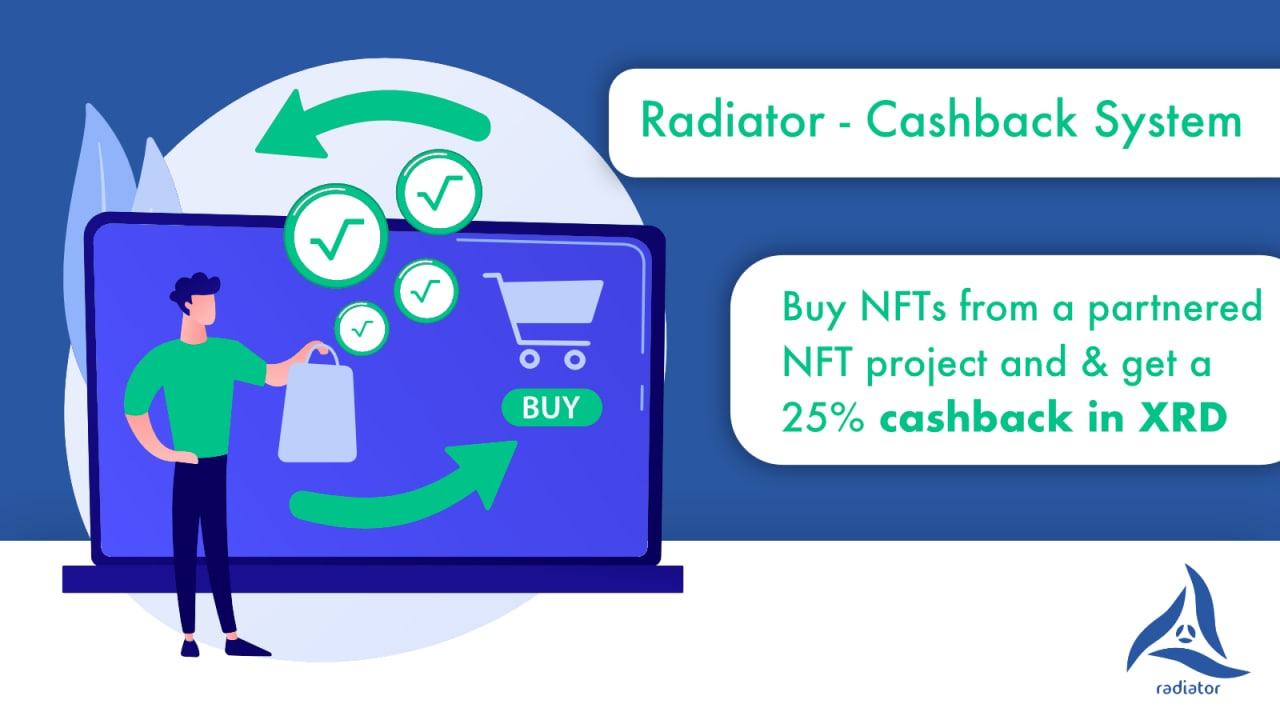
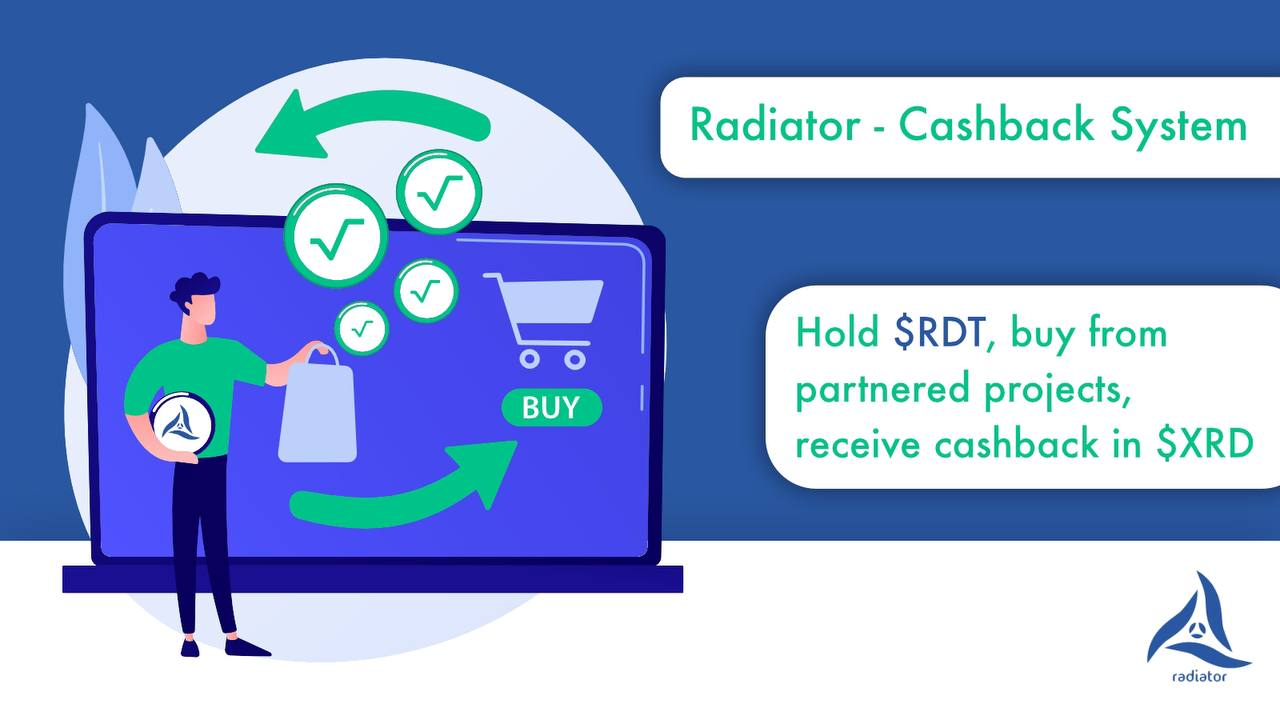
update

diff --git a/3cashback.html b/3cashback.html
@@ -7,12 +7,22 @@ title: cashback
 <br>
 <div class="bonus">
   <h1><span class="text--highlight">Cashback</span>-System</h1>
-  The idea behind $RDT is a "discount-token". We want a network of partnerships throughout the whole Radix Ecosystem. The customer basically gets a cashback when they hold a certain amount of RDT in the wallet.<br><br>
-  Example 1: an NFT project is giving a 25% discount as cashback only because the customer holds a certain amount of RDT in his wallet.<br>
-  Example 2: A customer saves the trading fee on a DEX by holding a certain amount of RDT in his wallet.<br><br>
-  We actually connect unconnectable projects throughout radix.
-  Why should a project partner with us? Its simple: Because they don't lose anything. If the customer doesn‘t have any RDT in the wallet, it is the normal price anyway. If the customer holds a certain amount (set by the partner project) of RDT it means, that he buys there on purpose as he wants to get the discount. It‘s actually kind of proof that we did set the incentive to buy there. The partner project can simply set the bar of how many RDT on the wallet it is supposed to be – to counteract<br> any inflation of the token. We want to build a win-win-win situation for the partnerproject, the customer and us of course.<br>
-  Our aim is to help increasing the revenue of any project.<br>
-  Our job is to promote our partners and set the incentives.<br><br>
+  The native Radiator token \$RDT is basically a „reward-token“. We are establishing a network of partnerships throughout the whole Radix ecosystem. Holders of \$RDT will receive \$XRD cashback, when interacting with goods and services from our partners.
+  <br><br>
+  <h4>$RDT Utility examples:</h4>
+  <ul>
+    <li>discounts when buying NFTs (Non Fungible Tokens)</li>
+    <li>reduced DEX (Decentralized Exchanges) Fees</li>
+    <li>discounts on software engineering services</li>
+  </ul>
+  <br><br>
+  <h4>The conditions for these utilities are set by our partners and vary from project to project:</h4>
+  <ul>
+    <li>amount of $RDT to hold in the wallet you are using to interact with goods & services</li>
+    <li>holding duration</li>
+    <li>others (depending on goods & services)</li>
+  </ul>
+  <br><br>
+  In our aim to optimize the value transfer within the Radix ecosystem we give recommendations to our partners on how to set the conditions in the best way for everyone.
   <img src="assets/img/cashback.jpg" alt="cashback">
 </div>

diff --git a/2stake.html b/2stake.html
@@ -7,15 +7,27 @@ title: stake
 <br>
 <div class="stake">
     <h1><span class="text--highlight">Stake</span> with <span class="text--highlight">us</span>!</h1>
-    <p>
-    We are a german community run radix validator node with a 0% fee. Our aim is to contribute to a decentralized financial system. The node runs on a 24/7 monitored ESXi Cluster with automatic backups and zero downtime.
-		To optimize updates and possible downtimes, we always have a backup node up and running.
-		<br><br>
-		Early stakers will receive airdrops of our native \$RDT token! The earlier and the more you stake, the more \$RDT tokens you get.
-    Formula for Airdrops:<br>
-    <p>$$\frac{\sum stake_{user} \times \sum Airdrop}{\sum stake_{validator}}$$</p>
+    Our Radiator ("RADix validATOR") node is run by german Radix community members. The node runs on a 24/7 monitored ESXi Cluster with automatic backups. To optimize handling of updates, one node is always up and running.
+    Not only will you receive passive income by staking on the Radiator node (\$XRD token with ~9% APY), but also you will receive our \$RDT cashback utility token via frequent airdrops. The more \$XRD you stake, the more \$RDT you will receive. But, everbody will receive a fair share at some point.
+    <br><br>
+    <ul>
+      <li>longtime supporters (staking duration)</li>
+      <li>small amount stakers</li>
+      <li>big amount stakers (whales)</li>
+    </ul>
+
+    To ensure everybody receives a fair share at some point, the airdrop parameters will change frequently and without prior notice:
+    <br><br>
+    <ul>
+      <li>staking duration</li>
+      <li>min. stake</li>
+      <li>max. stake</li>
+      <li>min. airdrop amount per wallet</li>
+      <li>max. airdrop amount per wallet</li>
+    </ul>
+
 		<figure class="highlight"><pre1><code class="language-python" data-lang="python" id="code16"><span class="k">rv1qtm3z8ryf9czeal3unuknedurpxd2lxvz48umryrrznw5queawet28atjna</span></code></pre1></figure>
-    </p>
+
     <h3>How to stake:</h3>
     <figure class="animated_gif_frame" data-caption="GIF (2MB)">
       <img class="animated_gif" src="/assets/img/staking.gif" data-source="/assets/img/staking.gif" width="100%" height="100%">

diff --git a/1about.html b/1about.html
@@ -1,0 +1,37 @@
+---
+layout: null
+section-type: default
+title: about
+---
+<br>
+<br>
+<div class="user-details-bis">
+    <!--<img src="assets/img/logo_white.png" alt="radiatorlogo" width="192" height="192">-->
+    <h1>About</h1>
+    <div class="project-row">
+      <div class="project-column">
+          <h3>Cashback-<span class="text--highlight">System</span></h3>
+          <div class="project-icons">
+            <a aria-label="bonus" href="#rewardsystem"><i class="icon fa fa-refresh"></i></a>
+          </div>
+          <br>
+          <p>The idea of implementing a reward ecosystem within the Radix Network is the central aspect behind radiator. We are establishing a cashback system, where holder of \$RDT will get rewarded in \$XRD when buying or using certain products from our partners.</p>
+      </div>
+        <div class="project-column">
+            <h3><span class="text--highlight">\$RDT</span> Token</h3>
+            <div class="project-icons">
+              <a aria-label="stake" href="https://explorer.radixdlt.com/#/tokens/rdt_rr1qwencdmhktehqfcha2yp3sxghqlzyf5eplkf4ac8dvdq5k8pka"><i class="icon fa fa-usd"></i></a>
+            </div>
+            <br>
+            <p>\$RDT is the first cashback utility token on Radix DLT. Supporters will receive airdrops for staking on our node or fullfilling tasks (giveaways with certain conditions). Stakers will receive a bonus when fulfilling tasks.</p>
+        </div>
+        <div class="project-column">
+            <h3><span class="text--highlight">🛠</span> Node <span class="text--highlight">🛠</span></h3>
+            <div class="project-icons">
+              <a aria-label="token" href="https://www.radixdlt.com/#radix-staking"><i class="icon fa fa-database"></i></a>
+            </div>
+            <br>
+            <p>Earn passive income by staking \$XRD on our node. Not only will you receive staking rewards in \$XRD but also you will receive \$RDT airdrops fequently.</p>
+        </div>
+    </div>
+</div>

diff --git a/_includes/header.html b/_includes/header.html
@@ -4,7 +4,7 @@
           <h1>
               <span class="site-title">{{ site.username }}</span>
               <span class="typewrite site-description" data-period="2250"
-                    data-type='["radixDLT", "node", "rv1qtm3z8ryf9czeal3unuknedurpxd2lxvz48umryrrznw5queawet28atjna", "Radically Different DeFi", "Unlimited Scalability"]'>
+                    data-type='["$RDT is the first cashback utility token exclusively on Radix DLT", "Cashback", "radixDLT", "node", "rv1qtm3z8ryf9czeal3unuknedurpxd2lxvz48umryrrznw5queawet28atjna", "Radically Different DeFi", "Unlimited Scalability"]'>
                 <span class="wrap"></span>
               </span>
               <br>
